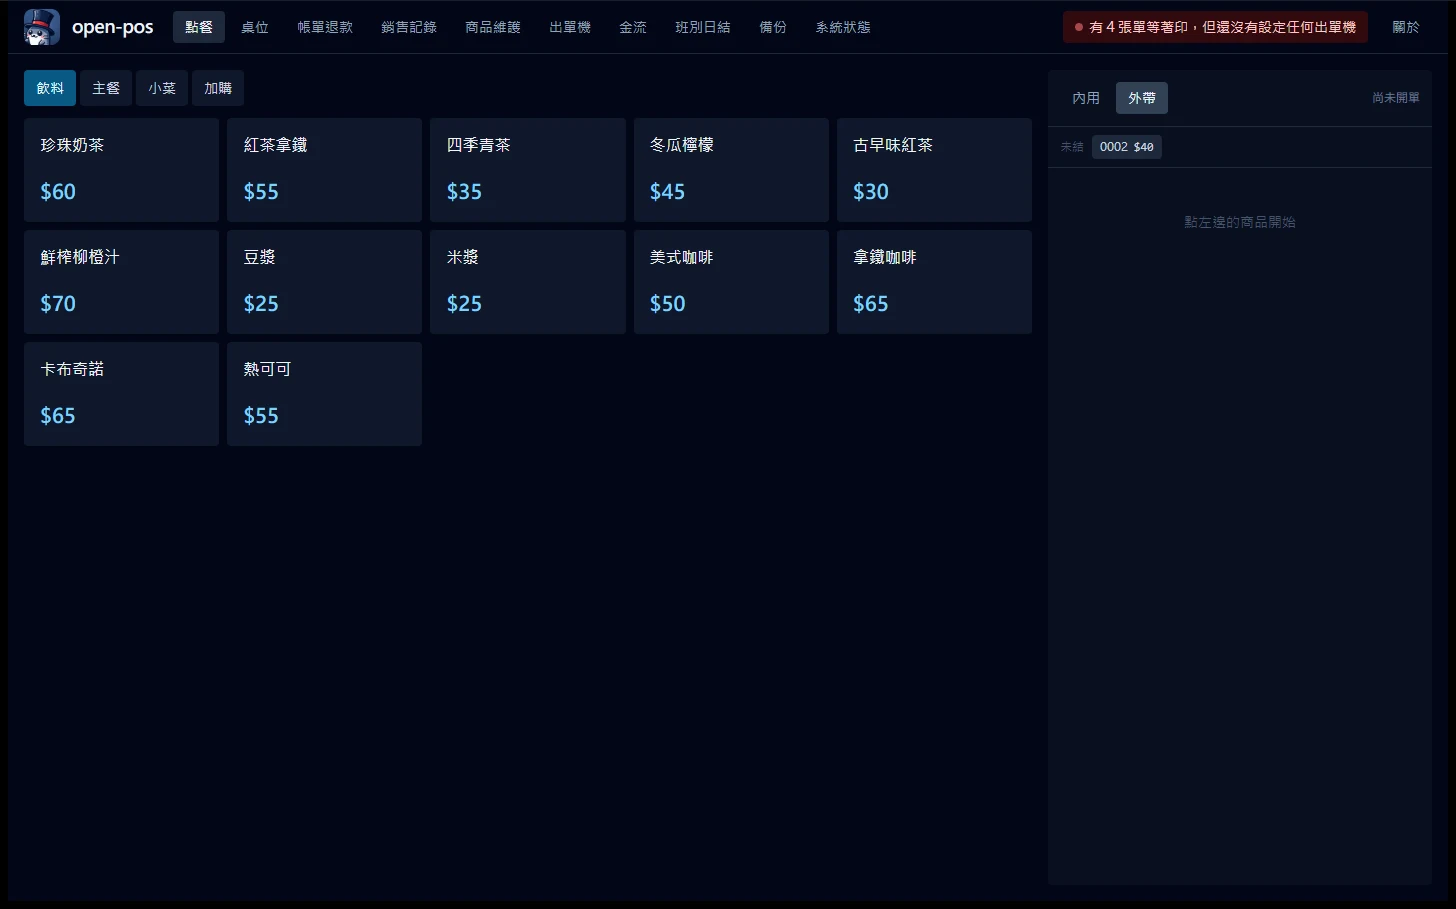
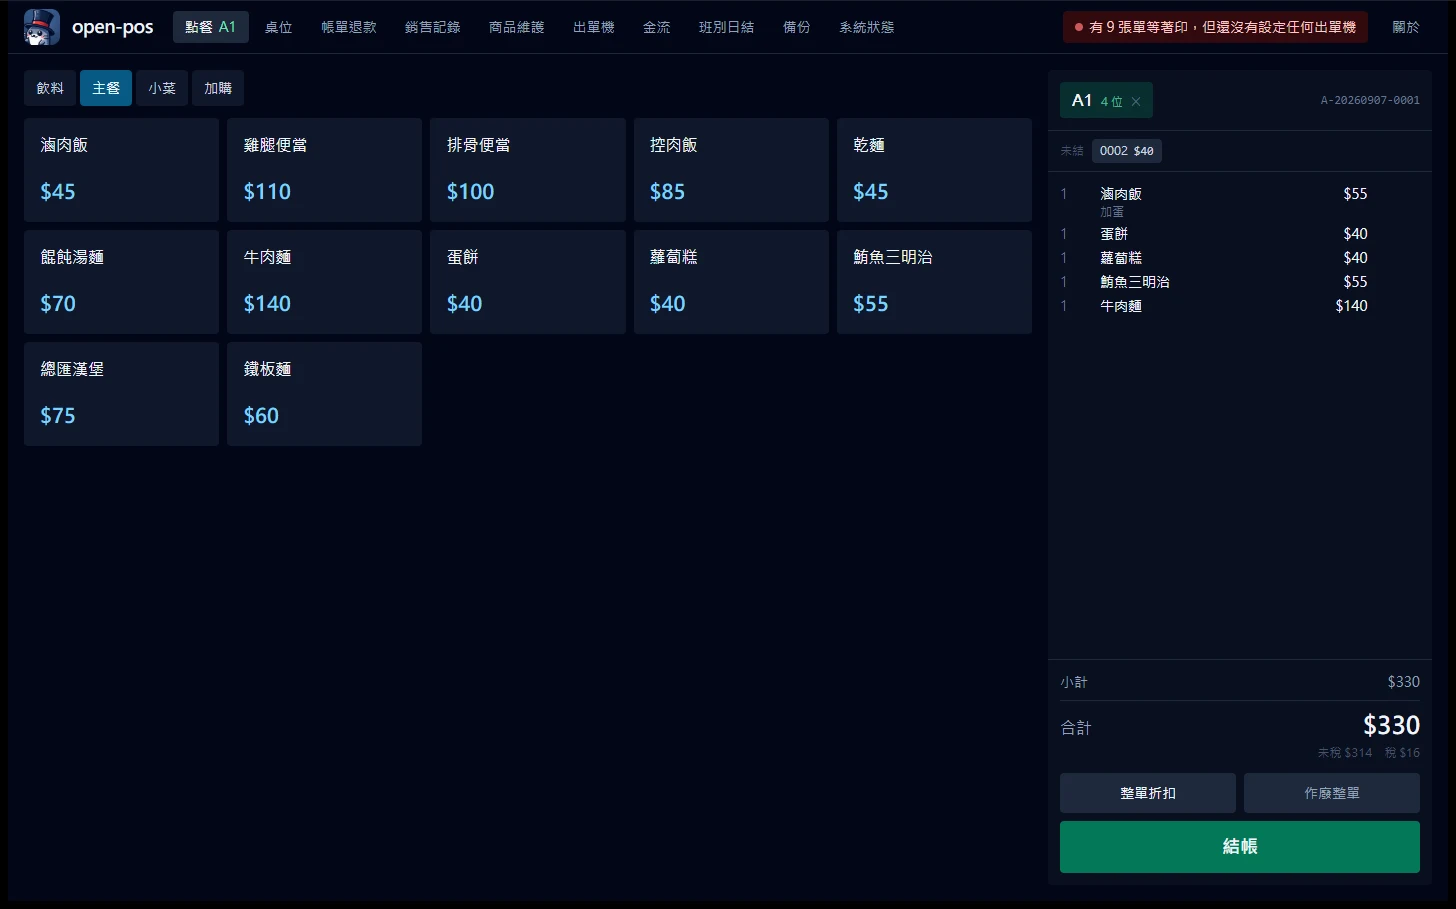
docs: 換成真的跑完一輪交易的截圖
原本的截圖是空畫面（購物車空的、桌位 0/6、銷售記錄沒資料），
因為那份開發資料被清掉過。空畫面看不出這套東西會做什麼。

重跑了一次完整流程再截：A1 開檯 4 位 → 點 5 樣（含「加蛋 +10」的加點）
→ $330（未稅 314 + 稅 16）→ 客人給 500 找零 170 → 銷售記錄出現那一筆。

四張圖各自負責一件事：
- 點餐：加點掛在品項下面，合計旁邊永遠同時有未稅與稅額
- 結帳：找零停在畫面上讓人照著數，上排是四種分帳模式
- 桌位：一張卡只回答「空不空、多少錢、坐多久」
- 金流：憑證只顯示末四碼

順帶驗證了整條路徑真的會動 —— 開檯、加點規格、稅額拆分、找零、
結帳後釋放桌位、銷售記錄與 Excel 匯出鈕。

diff --git a/README.en.md b/README.en.md
@@ -46,6 +46,17 @@ The order screen. Menu on the left, cart on the right, so the cashier's motion
 runs one way and never doubles back. Tiles are deliberately large, because at
 peak hours people are standing and poking with one finger.
 
+![Checkout and change](docs/images/payment.webp)
+
+Checkout. The customer hands over 500 against 330 due, and the 170 change stays
+on screen to be counted out. The row on top is the split-bill mode: whole bill /
+even split / fixed amount / by item, matching what counter staff actually get asked.
+
+![Table map](docs/images/tables.webp)
+
+The table map. Each card answers only three questions: is it free, how much is on
+it, how long have they been sitting.
+
 ![Payment gateway settings](docs/images/gateway.webp)
 
 Payment settings. Credentials come back as the last four characters only, never

diff --git a/README.md b/README.md
@@ -46,6 +46,15 @@ open-pos 想做的是相反的東西 —— 下載一個安裝檔、零月租、
 點餐畫面。左菜單右購物車，收銀員的動線一路往右不用回頭 ——
 品項磚刻意做大，因為尖峰時間是站著用食指戳的。
 
+![結帳與找零](docs/images/payment.webp)
+
+結帳。客人給 500、應收 330，找零 170 算出來之後停在畫面上讓人照著數。
+上面那排是分帳模式 —— 整單 / 平分 / 指定金額 / 分項，對應櫃檯真的會聽到的那幾句話。
+
+![桌位圖](docs/images/tables.webp)
+
+桌位圖。每張卡片只回答三個問題：空不空、多少錢、坐多久了。
+
 ![金流設定](docs/images/gateway.webp)
 
 金流設定。憑證只回末四碼，永遠不回明文；沒填完的欄位會擋住「啟用」，
